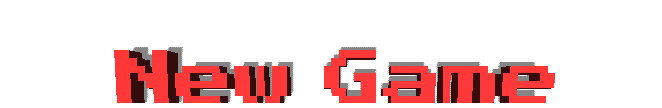
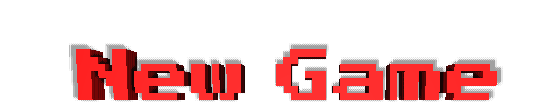
Added mkdir method for "Files" folder, menuAnimation updatet

Changed region(s): [[0.1234, 0.4, 0.9256, 0.9714]]

diff --git a/src/deepDown/controllers/StartMenuController.java b/src/deepDown/controllers/StartMenuController.java
@@ -1,5 +1,6 @@
 package deepDown.controllers;
 
+import deepDown.MenuAnimation;
 import javafx.animation.AnimationTimer;
 import javafx.application.Platform;
 import javafx.fxml.FXML;
@@ -20,8 +21,21 @@ public class StartMenuController {
     private AnchorPane anchor;
     @FXML
     private Button newGameButton;
-    private Image image;
-    private boolean newGameButtonHover = false;
+    @FXML
+    private Button loadGameButton;
+    @FXML
+    private Button leaderboardButton;
+    @FXML
+    private Button quitGameButton;
+    private Image newGameImage;
+    private Image loadGameImage;
+    private Image leaderboardImage;
+    private Image quitGameImage;
+
+    private boolean newGameHover = false;
+    private boolean loadGameHover = false;
+    private boolean leaderboardHover = false;
+    private boolean quitGameHover = false;
 
     private AnimationTimer animationTimer;
 
@@ -31,23 +45,70 @@ public class StartMenuController {
     @FXML
     public void initialize() {
 
-        image = new Image(getClass().getResourceAsStream("/deepDown/resource/images/NewGame.png"));
-        newGameButton.setGraphic(new ImageView(image));
+
+
+        leaderboardImage = new Image(getClass().getResourceAsStream("/deepDown/resource/images/Leaderboard.png"));
+        leaderboardButton.setGraphic(new ImageView(leaderboardImage));
+
+        quitGameImage = new Image(getClass().getResourceAsStream("/deepDown/resource/images/QuitGame.png"));
+        quitGameButton.setGraphic(new ImageView(quitGameImage));
 
         animationTimer = new AnimationTimer(){
                 public void handle(long now){
 
-                    if(newGameButton.isHover() && !newGameButtonHover){
-                        image = new Image(getClass().getResourceAsStream("/deepDown/resource/images/NewGame.gif"));
+                    if(newGameButton.isHover() && !newGameHover){
+                        Image image = new Image(getClass().getResourceAsStream("/deepDown/resource/images/NewGame.gif"));
+                        MenuAnimation newGame = new MenuAnimation(image, newGameButton, true);
+                        newGameButton = newGame.setButtonImage();
+                        newGameHover = newGame.isHovering();
 
-                        newGameButton.setGraphic(new ImageView(image));
-                        newGameButtonHover = true;
                     }else if (!newGameButton.isHover()){
-                        image = new Image(getClass().getResourceAsStream("/deepDown/resource/images/NewGame.png"));
-
-                        newGameButton.setGraphic(new ImageView(image));
-                        newGameButtonHover = false;
+                        newGameImage = new Image(getClass().getResourceAsStream("/deepDown/resource/images/NewGame.png"));
+                        MenuAnimation newGame = new MenuAnimation(newGameImage, newGameButton, false);
+                        newGameButton = newGame.setButtonImage();
+                        newGameHover = newGame.isHovering();
                     }
+
+                    if(loadGameButton.isHover() && !loadGameHover){
+                        Image image = new Image(getClass().getResourceAsStream("/deepDown/resource/images/LoadGame.gif"));
+                        MenuAnimation loadGame = new MenuAnimation(image, loadGameButton, true);
+                        loadGameButton = loadGame.setButtonImage();
+                        loadGameHover = loadGame.isHovering();
+
+                    }else if (!loadGameButton.isHover()){
+                        Image image = new Image(getClass().getResourceAsStream("/deepDown/resource/images/LoadGame.png"));
+                        MenuAnimation loadGame = new MenuAnimation(image, loadGameButton, false);
+                        loadGameButton = loadGame.setButtonImage();
+                        loadGameHover = loadGame.isHovering();
+                    }
+
+                    if(leaderboardButton.isHover() && !leaderboardHover){
+                        Image image = new Image(getClass().getResourceAsStream("/deepDown/resource/images/Leaderboard.gif"));
+                        MenuAnimation leaderboard = new MenuAnimation(image, leaderboardButton, true);
+                        leaderboardButton = leaderboard.setButtonImage();
+                        leaderboardHover = leaderboard.isHovering();
+
+                    }else if (!leaderboardButton.isHover()){
+                        Image image = new Image(getClass().getResourceAsStream("/deepDown/resource/images/Leaderboard.png"));
+                        MenuAnimation leaderboard = new MenuAnimation(image, leaderboardButton, false);
+                        leaderboardButton = leaderboard.setButtonImage();
+                        leaderboardHover = leaderboard.isHovering();
+                    }
+
+                    if(quitGameButton.isHover() && !quitGameHover){
+                        Image image = new Image(getClass().getResourceAsStream("/deepDown/resource/images/QuitGame.gif"));
+                        MenuAnimation quitGame = new MenuAnimation(image, quitGameButton, true);
+                        quitGameButton = quitGame.setButtonImage();
+                        quitGameHover = quitGame.isHovering();
+
+                    }else if (!quitGameButton.isHover()){
+                        Image image = new Image(getClass().getResourceAsStream("/deepDown/resource/images/QuitGame.png"));
+                        MenuAnimation quitGame = new MenuAnimation(image, quitGameButton, false);
+                        quitGameButton = quitGame.setButtonImage();
+                        quitGameHover = quitGame.isHovering();
+                    }
+
+
                 }
         };
         animationTimer.start();
@@ -96,7 +157,7 @@ public class StartMenuController {
      * Opens the leaderboards where the player can check top scores achieved
      * @throws IOException throws an IOException when a file is missing
      */
-    public void leaderboardsClicked() throws IOException{
+    public void leaderboardClicked() throws IOException{
         FXMLLoader loader = new FXMLLoader(getClass().getResource("/deepDown/resource/FXML/leaderboard.fxml"));
         LeaderboardController controller = new LeaderboardController();
         loader.setController(controller);

diff --git a/src/deepDown/controllers/LevelController.java b/src/deepDown/controllers/LevelController.java
@@ -394,7 +394,7 @@ public class LevelController {
     /**
      * Resets all of the keypress booleans to false
      */
-    private void resetKeypresses() {
+    private void resetKeypresses(){
         escapePressed.set(false);
         upPressed.set(false);
         downPressed.set(false);
@@ -409,12 +409,8 @@ public class LevelController {
         FXMLLoader loader = new FXMLLoader(getClass().getResource("/deepDown/resource/FXML/level.fxml"));
         LevelController controller = new LevelController(levelProgression +1, totScore, avatarLives);
         loader.setController(controller);
-
         Parent root = loader.load();
-
-
         anchor.getChildren().setAll(root);
-        animationTimer.stop();
         resetLevel();
     }
 
@@ -423,6 +419,7 @@ public class LevelController {
      */
     private void resetLevel() {
         lastCurrentTime = System.nanoTime();
+        animationTimer.stop();
         initialize();
     }
 

diff --git a/src/deepDown/Main.java b/src/deepDown/Main.java
@@ -8,12 +8,30 @@ import javafx.scene.Scene;
 import javafx.stage.Stage;
 import deepDown.controllers.StartMenuController;
 
+import java.io.File;
 import java.io.IOException;
 import java.net.URL;
 
 public class Main extends Application {
 
     public static void main(String[] args) {
+        File filesFolder = new File("Files");
+        try{
+            if (!filesFolder.exists()){
+                if (filesFolder.mkdir()){
+                    System.out.println("Files folder created");
+                }
+                else {
+                    System.out.println("Files folder not created");
+                }
+            }
+            else if (filesFolder.exists()){
+                System.out.println("Files folder already exists");
+            }
+        }catch (Exception e){
+            e.printStackTrace();
+        }
+
         launch(args);
     }
 

diff --git a/src/deepDown/MenuAnimation.java b/src/deepDown/MenuAnimation.java
@@ -1,0 +1,27 @@
+package deepDown;
+
+import javafx.scene.control.Button;
+import javafx.scene.image.Image;
+import javafx.scene.image.ImageView;
+
+public class MenuAnimation {
+
+    private Image image;
+    private Button button;
+    private boolean hovering;
+
+    public MenuAnimation(Image image, Button button, boolean hovering) {
+        this.image = image;
+        this.button = button;
+        this.hovering = hovering;
+    }
+
+    public Button setButtonImage(){
+        button.setGraphic(new ImageView(this.image));
+        return button;
+    }
+
+    public boolean isHovering() {
+        return hovering;
+    }
+}
